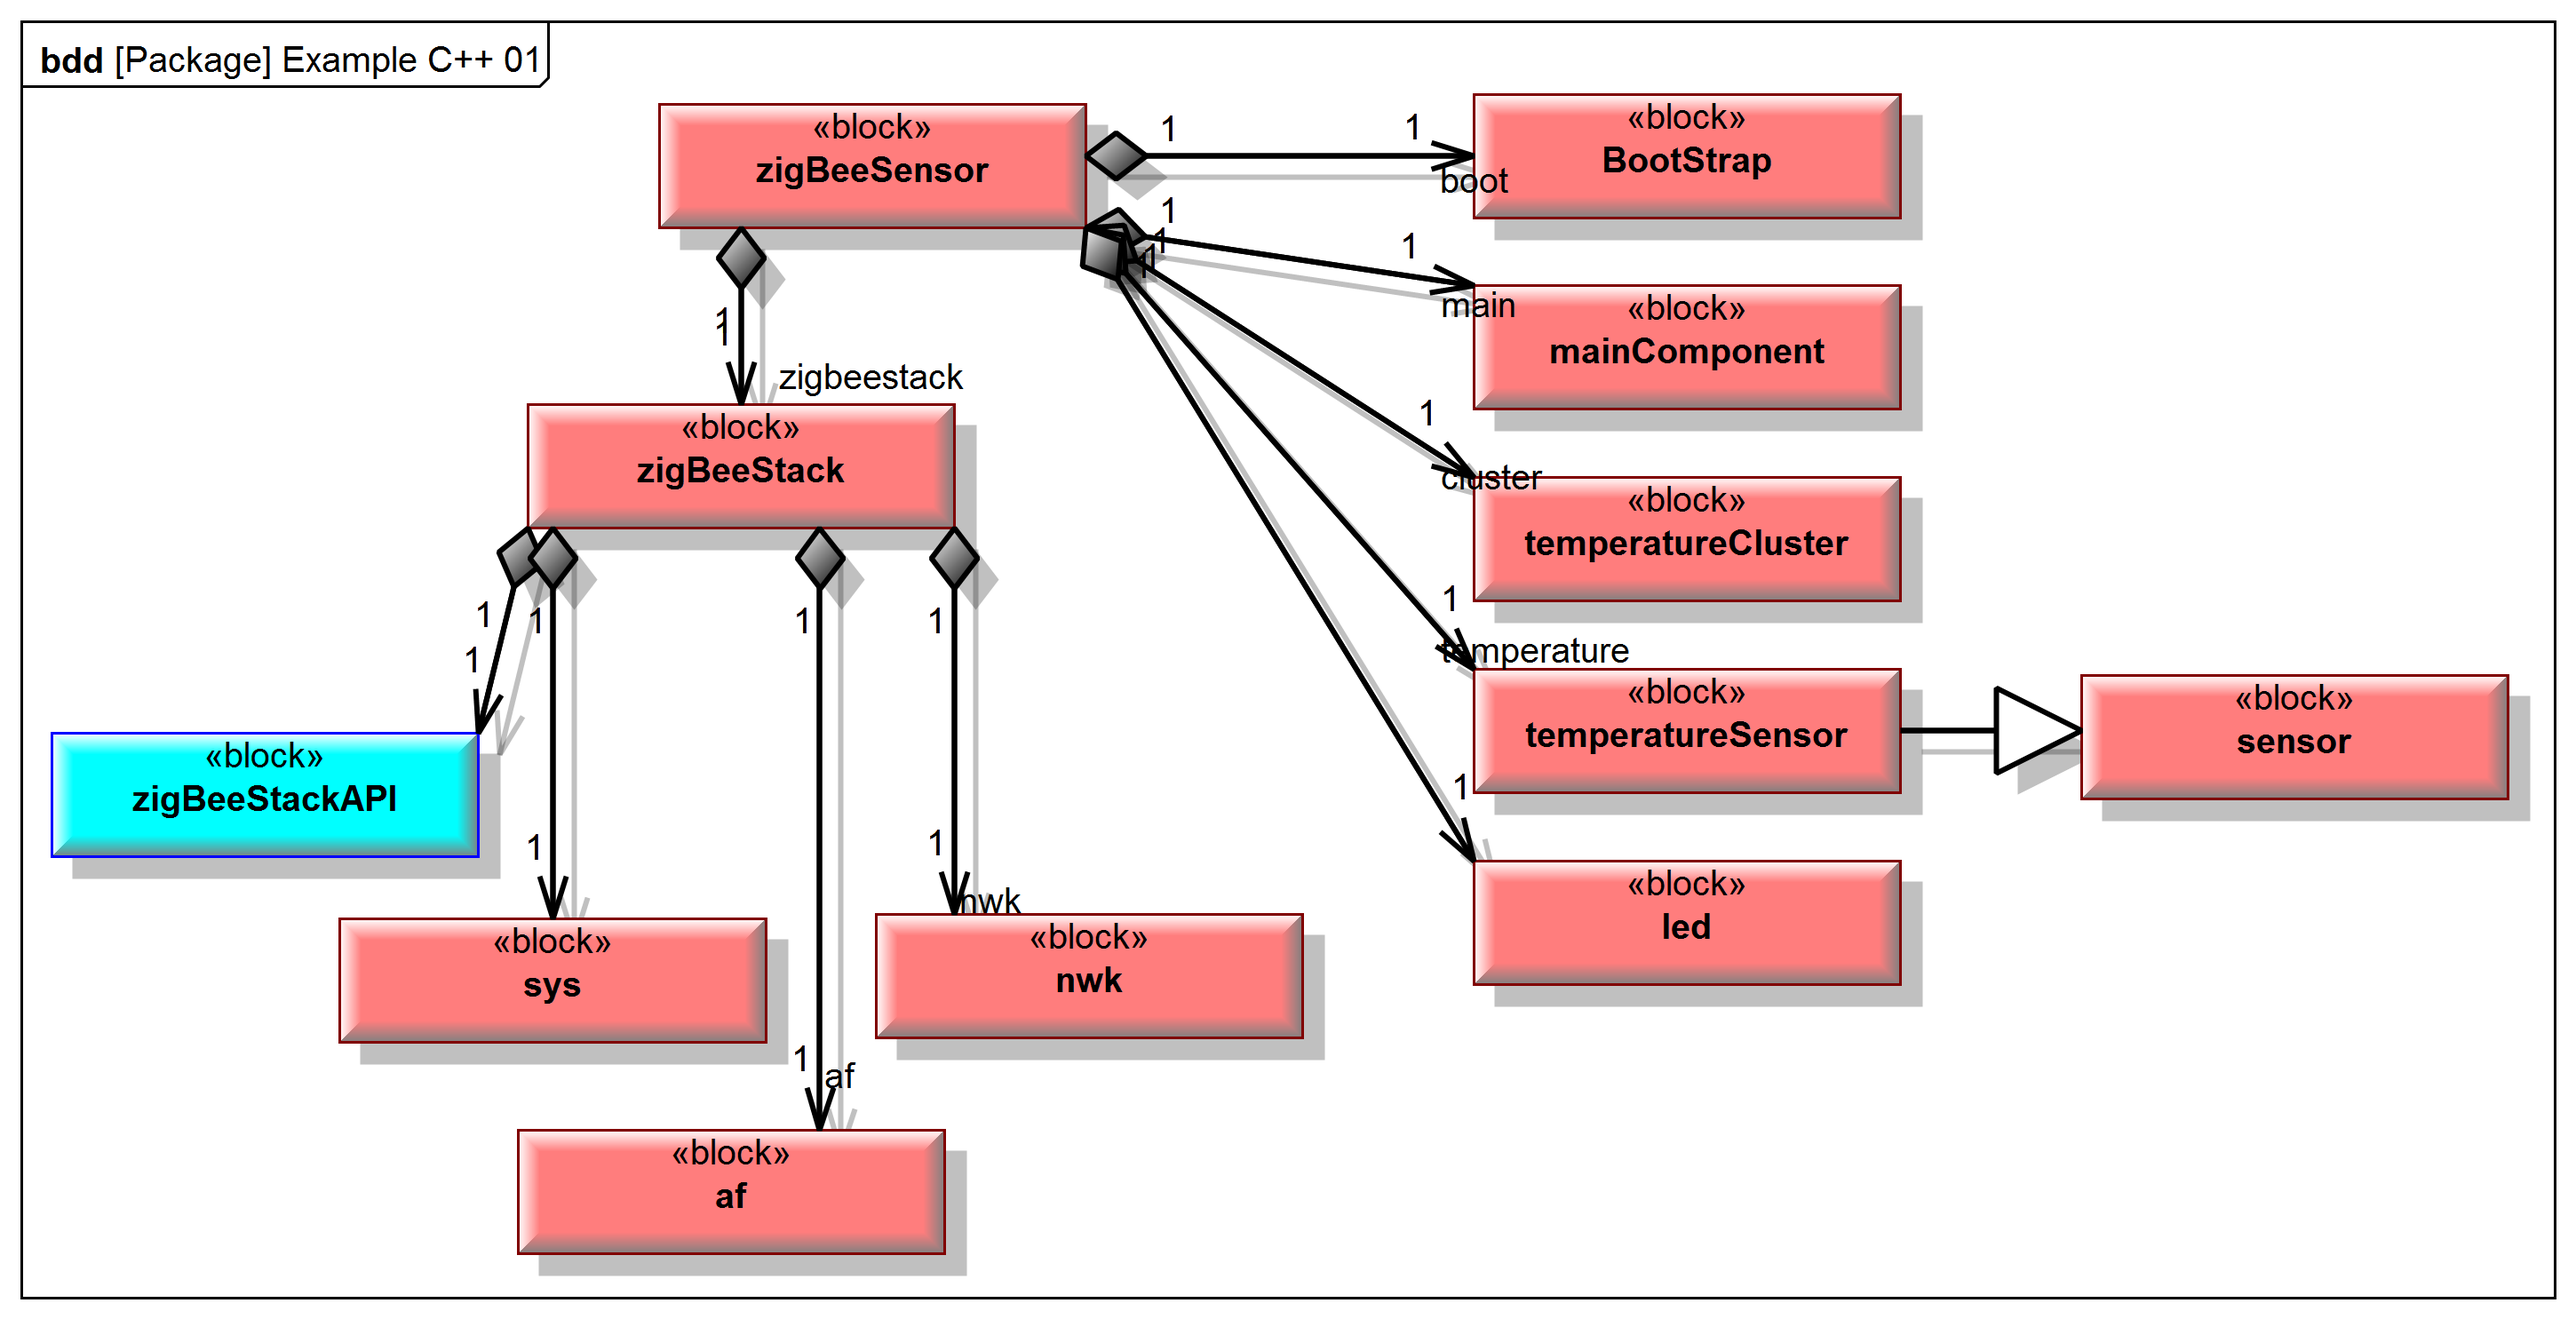
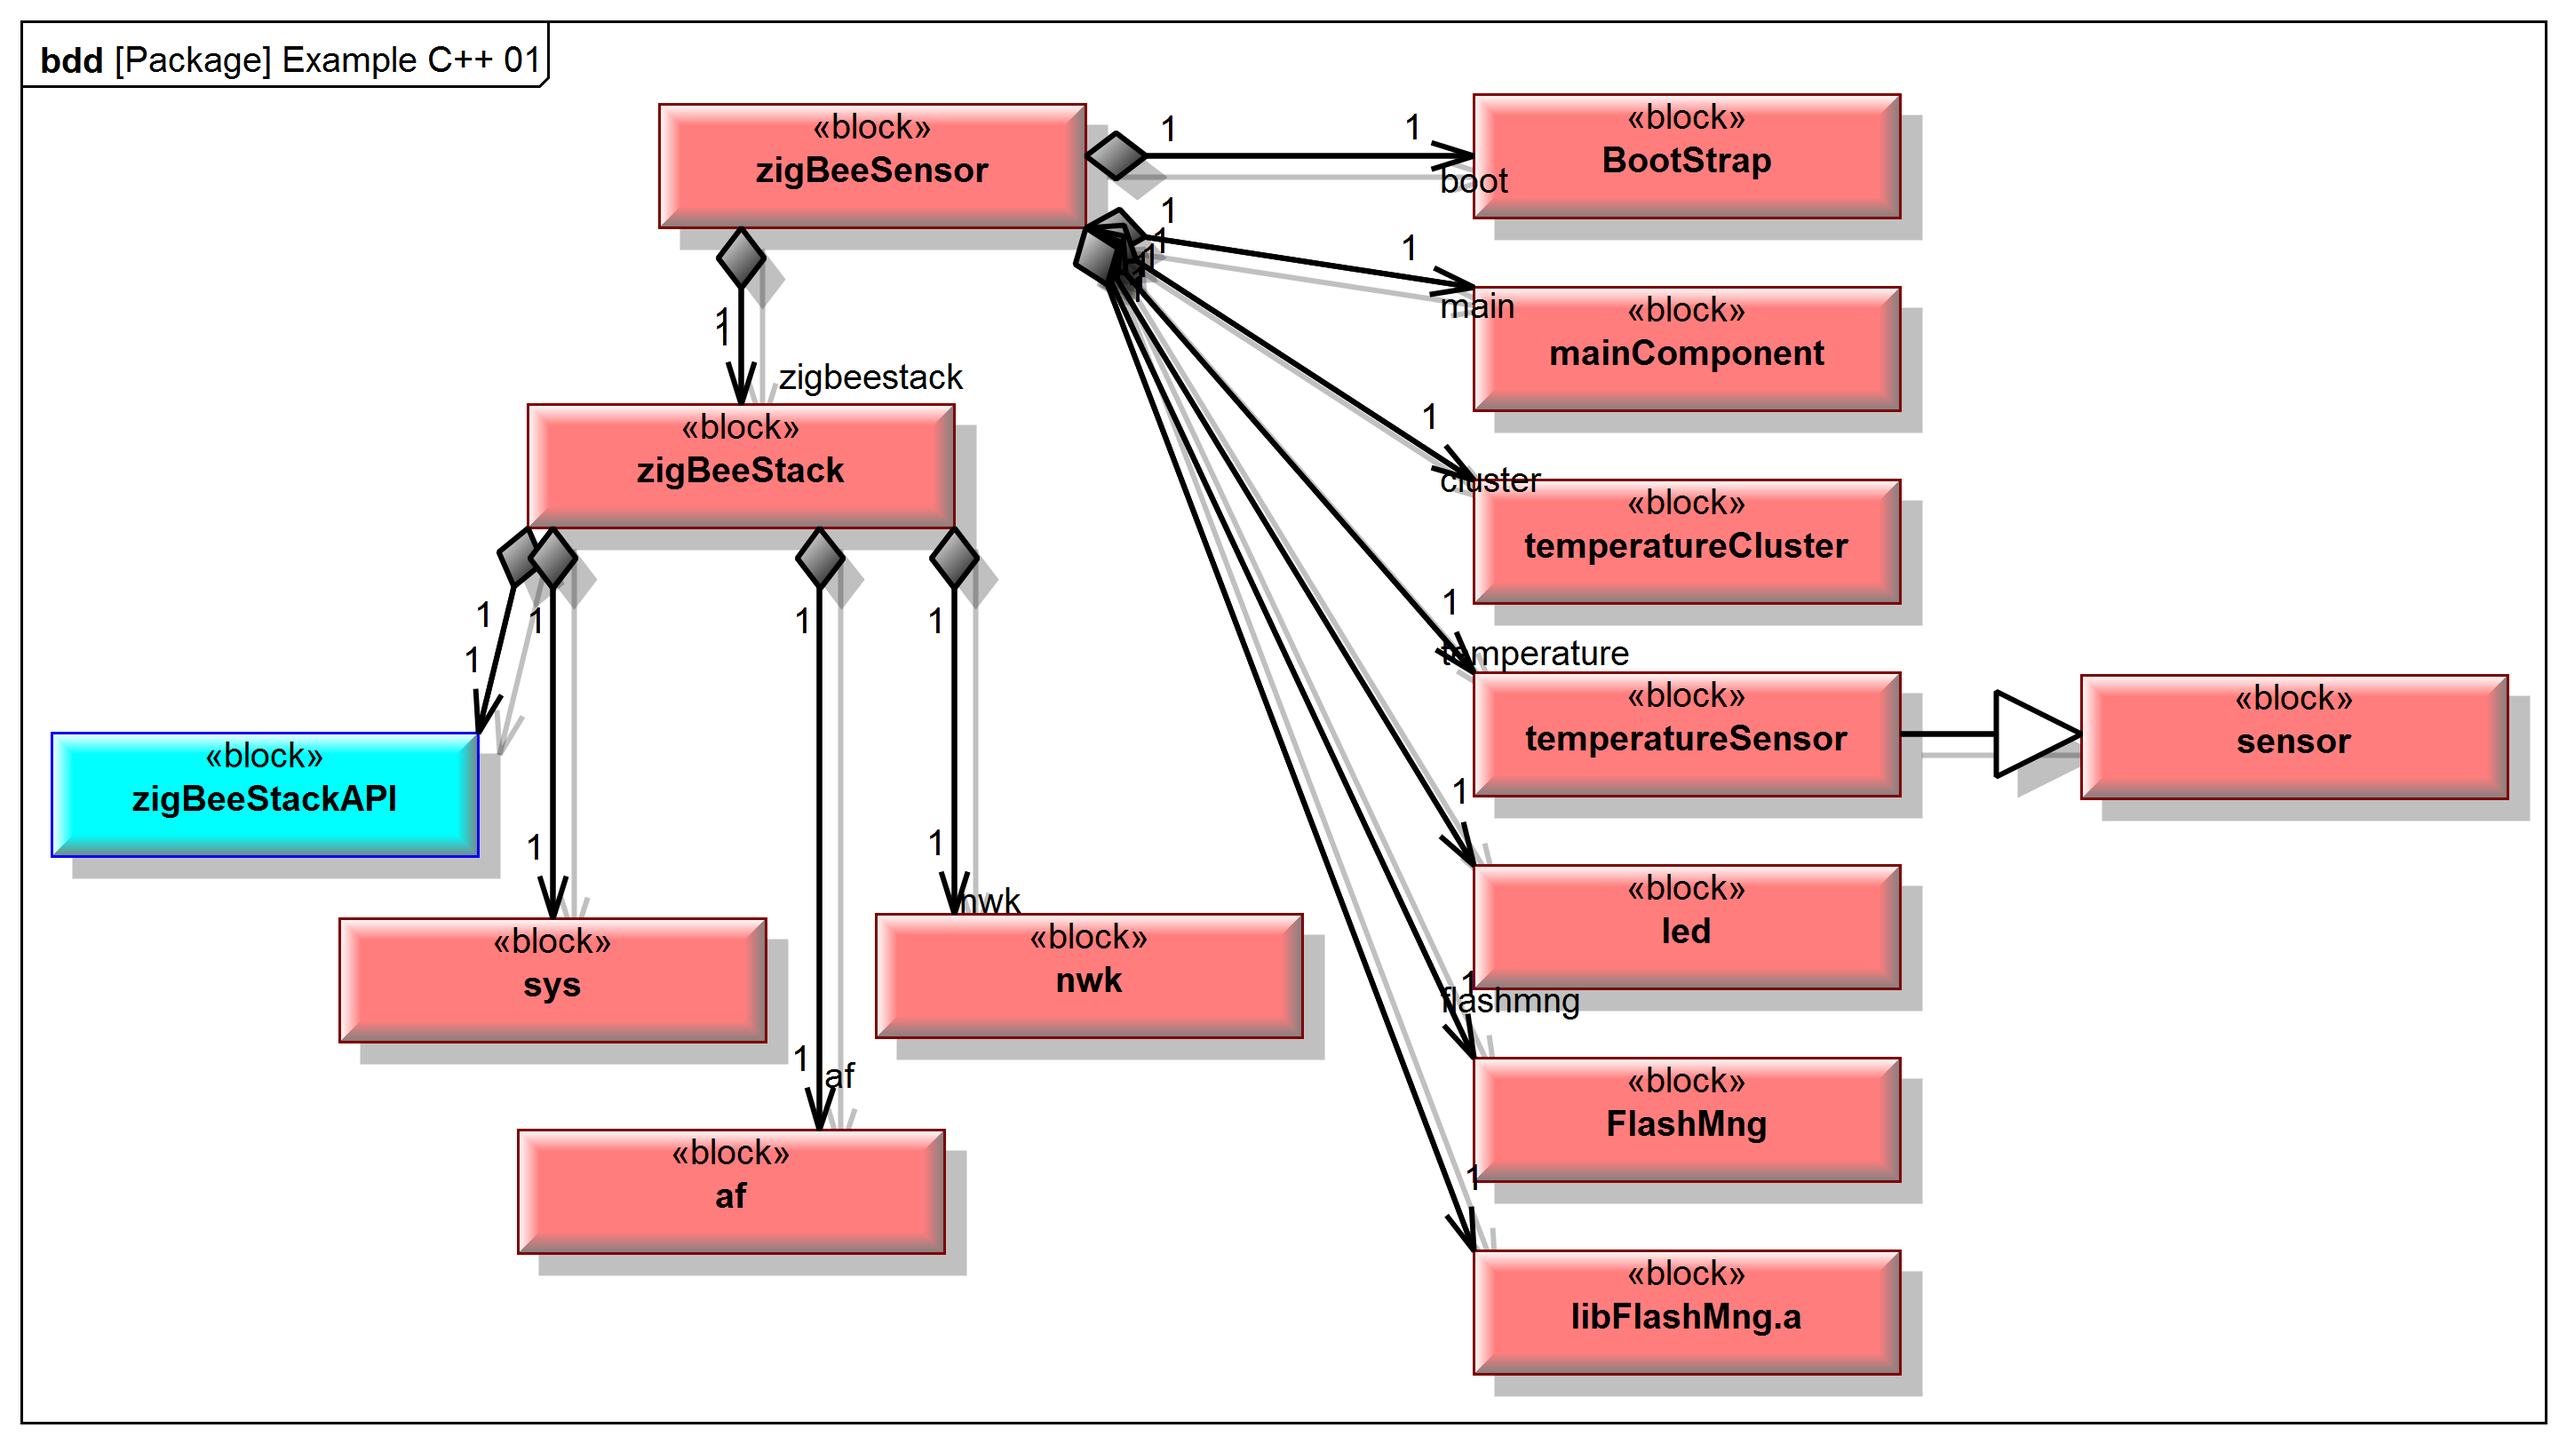
Add external library link. Modify diagrammes in the documentation.

diff --git a/mindcpp/src/assemble/resources/examples/ZigBeeSensor/src/main/mind/FlashMng.hpp b/mindcpp/src/assemble/resources/examples/ZigBeeSensor/src/main/mind/FlashMng.hpp
@@ -1,0 +1,25 @@
+/*
+ * FlashMng.hpp
+ *
+ *  Created on: 1 avr. 2014
+ *      Author: SESA188919
+ */
+
+#ifndef FLASHMNG_HPP_
+#define FLASHMNG_HPP_
+
+
+#include "FlashMng.adl.hpp"
+
+using namespace __ns_FlashMng;
+
+class FlashMng: public FlashMngDefinition {
+protected:
+public:
+  virtual void WritePage(int address, int byte);
+  virtual void ReadPage(int address, int *byte);
+};
+
+
+
+#endif /* FLASHMNG_HPP_ */

diff --git a/mindcpp/src/assemble/resources/examples/ZigBeeSensor/src/main/mind/FlashMng.cpp b/mindcpp/src/assemble/resources/examples/ZigBeeSensor/src/main/mind/FlashMng.cpp
@@ -1,0 +1,18 @@
+#include "FlashMng.hpp"
+#include <stdio.h>
+#include "FlashMngExt.hpp"
+
+void flashmngitf::WritePage(int address, int byte) {
+  FlashMngExt flash;
+  flash.WriteByte(address, byte);
+  //PRIVATE.toto = 2;
+  //PRIVATE.tata = 4;
+  return;
+}
+
+
+void flashmngitf::ReadPage(int address, int *byte) {
+  //	PRIVATE.m_FlashMngExt.ReadByte(address, byte);
+  *byte = 1;
+  return;
+}

diff --git a/mindcpp/src/assemble/resources/examples/ZigBeeSensor/libs/FlashMngExt.hpp b/mindcpp/src/assemble/resources/examples/ZigBeeSensor/libs/FlashMngExt.hpp
@@ -1,0 +1,21 @@
+/*
+ * FlashMng.hpp
+ *
+ *  Created on: 1 avr. 2014
+ *      Author: yves
+ */
+
+#ifndef FLASHMNGEXT_HPP_
+#define FLASHMNGEXT_HPP_
+
+
+class FlashMngExt {
+public:
+    FlashMngExt() {};
+	~FlashMngExt() {};
+	void WriteByte(int address, int byte);
+	void ReadByte(int address, int *byte);
+};
+
+
+#endif /* FLASHMNGEXT_HPP_ */

diff --git a/mindcpp/src/assemble/resources/examples/ZigBeeSensor/src/main/mind/nwk.cpp b/mindcpp/src/assemble/resources/examples/ZigBeeSensor/src/main/mind/nwk.cpp
@@ -13,5 +13,6 @@
 void nwkitf::SendRequest(unsigned char* a_data) {
 	leditf.led01On();
 	printf("Send data to the ZigBee network : h%x h%x h%x h%x h%x\n", a_data[0], a_data[1], a_data[2], a_data[3], a_data[4]);
+	flashmngitf.WritePage(1,2);
 	leditf.led01Off();
 }
